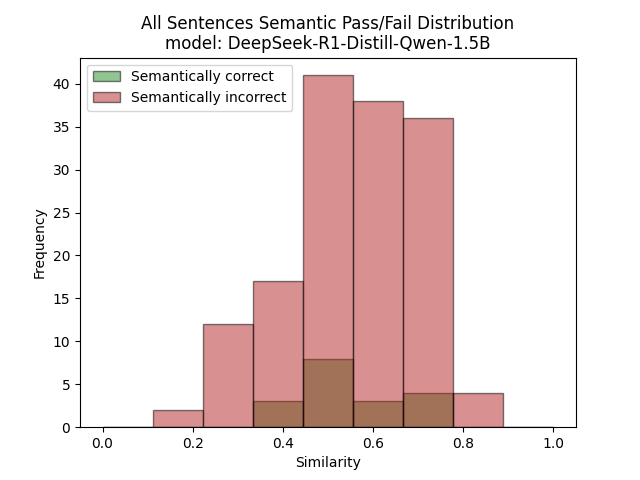
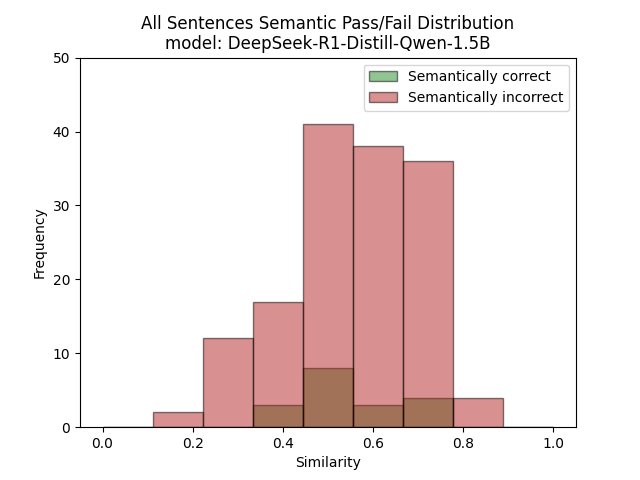
fixed scale on histograms

diff --git a/ollama_container/heatmap_generators/generate_semantic_distribution_plots.py b/ollama_container/heatmap_generators/generate_semantic_distribution_plots.py
@@ -27,12 +27,14 @@ for key in res.keys():
             raise Exception(f'no choice associated with {stl}')
 
 # Plot histogram
+# bins = np.linspace(min(res[sentence]), max(res[sentence]), 10)
 bins = np.linspace(0, 1, 10) # change bin count if needed
 plt.hist(ones, bins=bins, alpha=0.5, label='Semantically correct', color='forestgreen', edgecolor='black')
 plt.hist(zeroes, bins=bins, alpha=0.5, label='Semantically incorrect', color='firebrick', edgecolor='black')
 
 plt.xlabel('Similarity')
 plt.ylabel('Frequency')
+plt.ylim(0, 50)
 plt.title(f'All Sentences Semantic Pass/Fail Distribution\nmodel: {model_name}')
 plt.legend()
 
@@ -41,12 +43,23 @@ plt.savefig(f"../images/{model_name}/histogram_distribution_comparison.png")
 # do them as sentences
 fig, axs = plt.subplots(len(res.keys()), 1, figsize=(20,60)) # TODO: change fig size if needed
 axs = np.atleast_1d(axs)
-bins = np.linspace(0, 1, 10) # change bin count if needed
 
 for _id, sentence in enumerate(res.keys()): # key is sentence
     zeroes = []
     ones = []
+    
+    max_sim = 0
+    min_sim = 0
+    first_time = True
+
     for stl, sim, choice in res[sentence]:
+        if first_time or sim > max_sim:
+            max_sim = sim
+            first_time = False
+        if first_time or sim < min_sim:
+            min_sim = sim
+            first_time = False
+
         if choice is None or choice == '':
             continue
         elif int(choice) == 0:
@@ -55,12 +68,16 @@ for _id, sentence in enumerate(res.keys()): # key is sentence
             ones.append(sim)
         else:
             raise Exception(f'no choice associated with {stl}')
+
+    bins = np.linspace(min_sim, max_sim, 10)
+
     axs[_id].hist(ones, bins=bins, alpha=0.5, label='Semantically correct', color='forestgreen', edgecolor='black')
     axs[_id].hist(zeroes, bins=bins, alpha=0.5, label='Semantically incorrect', color='firebrick', edgecolor='black')
 
     axs[_id].set_title(f'Semantic Pass/Fail Distribution\nsentence: {sentence}\nmodel: {model_name}')
     axs[_id].set_xlabel('Similarity')
     axs[_id].set_ylabel('Frequency')
+    axs[_id].set_ylim(0,15)
     axs[_id].legend()
 
 fig.tight_layout()
